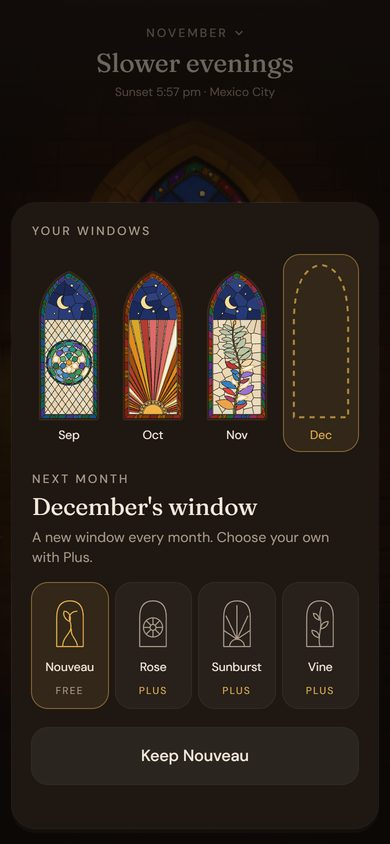
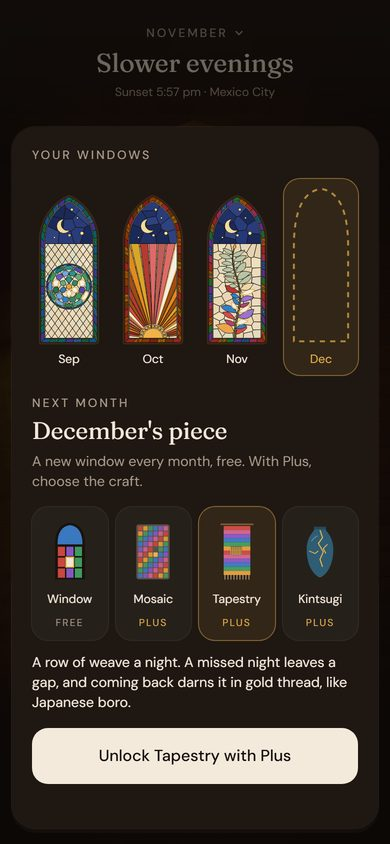
Next month's piece: the window free, other crafts as Plus (mocked); Pricing in the README
The paid tier is choosing the craft: a mosaic, a tapestry or a kintsugi vase,
each mending a missed night in gold its own way. Only the window is built; the
others are small mocks marked Plus. The README explains the month as the unit
(a piece, a billing cycle), when the offer appears, and why the window, not
kintsugi, is the free default.

diff --git a/components/Windows.tsx b/components/Windows.tsx
@@ -5,8 +5,14 @@
 //
 // - The months before stay exactly as they were (missed nights clear, mended in gold), each in
 //   the design it had. This month's is in progress.
-// - A new window every month is free, from the house rotation. Choosing your own is where the
-//   paid tier (Plus) goes. The nightly ritual and the record of your nights are never behind it.
+// - Next month's piece is where the paid tier (Plus) goes. Free, it's another window, from the
+//   house rotation. With Plus you choose the craft: a mosaic, a tapestry or a kintsugi vase, each
+//   with its own way of mending a missed night in gold. (A mock: only the window is built.)
+// - The nightly ritual and the record of your nights are never behind it.
+//
+// Why the window is the free default and kintsugi isn't: kintsugi is the metaphor everyone
+// knows. For some people it's poetic, so it's there to choose, but as the default it would feel
+// borrowed. The window is this app's own version of the same idea.
 
 import { useMemo, useState, type ReactNode } from "react";
 import FlatWindow from "@/components/FlatWindow";
@@ -14,60 +20,82 @@ import { finishedMonth, monthName, type DailyGoal } from "@/lib/data";
 import { DESIGNS } from "@/lib/designs";
 import { buildWindow, nightLooks } from "@/lib/window-model";
 
-type Choice = { id: string; name: string; plus: boolean; art: ReactNode };
+type Medium = { id: string; name: string; plus: boolean; how: string; art: ReactNode };
 
-/** Next month's windows: the house window is free, choosing another is Plus. */
-const CHOICES: Choice[] = [
+const C = { ruby: "#c9473f", amber: "#e39a35", emerald: "#3f9a5d", sapphire: "#3a78c0", amethyst: "#8457c2", rose: "#d0608c", gold: "#e7b24f", lead: "#1a120d" };
+const TONES = [C.ruby, C.amber, C.emerald, C.sapphire, C.amethyst, C.rose];
+
+/** Next month's piece: another window is free; another craft is Plus. Each mends a missed night its own way. */
+const MEDIUMS: Medium[] = [
   {
-    id: "nouveau",
-    name: "Nouveau",
+    id: "window",
+    name: "Window",
     plus: false,
+    how: "A piece of glass a night. A missed night stays clear, and coming back leads it in gold. December's house window is Nouveau.",
     art: (
       <>
-        <path d="M6 70V30Q6 8 24 8t18 22v40Z" />
-        <path d="M14 70c0-16 16-18 10-34-3-8 2-14 10-14" />
-        <path d="M34 70c0-10-10-14-8-24" />
-        <path d="M24 36c-6-2-10-8-8-14 6 0 10 6 8 14Z" />
-      </>
-    ),
-  },
-  {
-    id: "rose",
-    name: "Rose",
-    plus: true,
-    art: (
-      <>
-        <path d="M6 70V30Q6 8 24 8t18 22v40Z" />
-        <circle cx="24" cy="44" r="13" />
-        <circle cx="24" cy="44" r="4" />
-        {Array.from({ length: 8 }, (_, i) => {
-          const a = (i / 8) * Math.PI * 2;
-          return <path key={i} d={`M${24 + Math.cos(a) * 4} ${44 + Math.sin(a) * 4}L${24 + Math.cos(a) * 13} ${44 + Math.sin(a) * 13}`} />;
+        <path d="M6 72V30Q6 6 24 4Q42 6 42 30V72Z" fill={C.lead} />
+        <path d="M9 30Q9 9 24 7Q39 9 39 30Z" fill={C.sapphire} />
+        {Array.from({ length: 9 }, (_, i) => {
+          const [x, y] = [9 + (i % 3) * 10.2, 32.5 + Math.floor(i / 3) * 13];
+          const mended = i === 4;
+          return <rect key={i} x={x} y={y} width="9.4" height="12" fill={mended ? "#efe8d8" : TONES[(i * 4) % 6]} stroke={mended ? C.gold : C.lead} strokeWidth={mended ? 1.6 : 0.8} />;
         })}
       </>
     ),
   },
   {
-    id: "sunburst",
-    name: "Sunburst",
+    id: "mosaic",
+    name: "Mosaic",
     plus: true,
+    how: "A tile a night. A missed night stays bare grout, and coming back sets it with a tile of gold.",
     art: (
       <>
-        <path d="M6 70V30Q6 8 24 8t18 22v40Z" />
-        <path d="M14 70a10 10 0 0 1 20 0" />
-        <path d="M24 60V14M24 60 9 28M24 60l15-32M24 60 6 48M24 60l18-12" />
+        <rect x="4" y="6" width="40" height="66" rx="3" fill="#5c5146" />
+        {Array.from({ length: 6 * 10 }, (_, i) => {
+          const [col, row] = [i % 6, Math.floor(i / 6)];
+          if (i === 27) return null; // bare grout: a night still missed
+          return <rect key={i} x={6.2 + col * 6.1} y={8.2 + row * 6.3} width="5.2" height="5.4" rx="0.6" fill={i === 33 ? C.gold : TONES[(i * 7 + row) % 6]} opacity={i === 33 ? 1 : 0.92} />;
+        })}
       </>
     ),
   },
   {
-    id: "vine",
-    name: "Vine",
+    id: "tapestry",
+    name: "Tapestry",
     plus: true,
+    how: "A row of weave a night. A missed night leaves a gap, and coming back darns it in gold thread, like Japanese boro.",
     art: (
       <>
-        <path d="M6 70V30Q6 8 24 8t18 22v40Z" />
-        <path d="M24 70c-4-14 4-26 0-40-1-5 1-10 2-14" />
-        <path d="M23 58c-6-1-10-5-10-10 6 0 10 4 10 10ZM25 46c6-1 10-5 10-10-6 0-10 4-10 10ZM23 34c-5-1-8-5-8-9 5 0 8 4 8 9Z" />
+        <path d="M5 6h38" stroke="#7a5a3a" strokeWidth="2" strokeLinecap="round" />
+        {Array.from({ length: 12 }, (_, i) => (
+          <rect key={i} x="8" y={8 + i * 4.9} width="32" height="4.9" fill={TONES[(i * 5) % 6]} />
+        ))}
+        {Array.from({ length: 16 }, (_, i) => (
+          <path key={i} d={`M${9 + i * 2} 8v58.8`} stroke="#fff" strokeOpacity="0.12" strokeWidth="0.6" />
+        ))}
+        <rect x="16" y="32.5" width="14" height="9.8" fill="#3b2e24" />
+        {Array.from({ length: 6 }, (_, i) => (
+          <path key={i} d={`M${16.5 + i * 2.5} 32.8v9.2M16.3 ${33.6 + i * 1.6}h13.4`} stroke={C.gold} strokeWidth="0.8" />
+        ))}
+        {Array.from({ length: 9 }, (_, i) => (
+          <path key={i} d={`M${9.5 + i * 3.6} 67v5`} stroke="#c9b28c" strokeWidth="0.9" strokeLinecap="round" />
+        ))}
+      </>
+    ),
+  },
+  {
+    id: "kintsugi",
+    name: "Kintsugi",
+    plus: true,
+    how: "A shard a night, fitted into a bowl. Coming back after a miss joins it with gold.",
+    art: (
+      <>
+        <path d="M17 9h14v3c0 3 9 8 9 24 0 18-7 30-16 34-9-4-16-16-16-34 0-16 9-21 9-24Z" fill="#2f5d73" />
+        <path d="M17 9h14v3H17Z" fill="#244a5c" />
+        <path d="M24 13l3 9-5 7 6 10-4 9 3 9" fill="none" stroke={C.gold} strokeWidth="1.3" strokeLinejoin="round" />
+        <path d="M11 38l7 3 4-3M33 30l-5 5 3 6" fill="none" stroke={C.gold} strokeWidth="1.1" strokeLinejoin="round" />
+        <path d="M14 26c3-4 6-6 7-6" fill="none" stroke="#fff" strokeOpacity="0.25" strokeWidth="1.2" strokeLinecap="round" />
       </>
     ),
   },
@@ -93,10 +121,10 @@ export default function Windows({ goal, shown: showing, onOpen, onClose }: Props
     [goal],
   );
   const [open, setOpen] = useState<string>(showing);
-  const [picked, setPicked] = useState(CHOICES[0].id);
+  const [picked, setPicked] = useState(MEDIUMS[0].id);
   const [asked, setAsked] = useState(false);
   const shown = wall.find((w) => w.goal.month === open);
-  const plus = CHOICES.find((d) => d.id === picked)?.plus;
+  const medium = MEDIUMS.find((d) => d.id === picked) ?? MEDIUMS[0];
 
   return (
     <div role="dialog" aria-modal aria-label="Your windows" className="fixed inset-0 z-20 flex items-end animate-fade [animation-duration:0.3s]">
@@ -154,10 +182,10 @@ export default function Windows({ goal, shown: showing, onOpen, onClose }: Props
         ) : (
           <div key="next" className="mt-5 animate-rise">
             <p className="eyebrow">Next month</p>
-            <h2 className="mt-1 font-display text-2xl">{next}&apos;s window</h2>
-            <p className="mt-1 text-sm text-mist">A new window every month. Choose your own with Plus.</p>
+            <h2 className="mt-1 font-display text-2xl">{next}&apos;s piece</h2>
+            <p className="mt-1 text-sm text-mist">A new window every month, free. With Plus, choose the craft.</p>
             <div className="mt-4 grid grid-cols-4 gap-2">
-              {CHOICES.map((d) => (
+              {MEDIUMS.map((d) => (
                 <button
                   key={d.id}
                   onClick={() => {
@@ -166,10 +194,10 @@ export default function Windows({ goal, shown: showing, onOpen, onClose }: Props
                   }}
                   aria-pressed={picked === d.id}
                   className={`flex flex-col items-center gap-2 rounded-2xl pt-3 pb-2.5 ring-1 transition-colors duration-200 ${
-                    picked === d.id ? "bg-gold/10 text-gold ring-gold/50" : "bg-white/4 text-mist ring-white/8"
+                    picked === d.id ? "bg-gold/10 ring-gold/50" : "bg-white/4 ring-white/8"
                   }`}
                 >
-                  <svg viewBox="0 0 48 76" className="h-14 w-9" fill="none" stroke="currentColor" strokeWidth="1.5" strokeLinejoin="round" aria-hidden>
+                  <svg viewBox="0 0 48 76" className="h-16 w-10" aria-hidden>
                     {d.art}
                   </svg>
                   <span className="text-xs text-ink">{d.name}</span>
@@ -177,16 +205,19 @@ export default function Windows({ goal, shown: showing, onOpen, onClose }: Props
                 </button>
               ))}
             </div>
-            {plus ? (
+            <p key={medium.id} className="mt-3 min-h-10 animate-fade text-sm text-ink">
+              {medium.how}
+            </p>
+            {medium.plus ? (
               <>
-                <button onClick={() => setAsked(true)} className="btn-primary mt-5">
-                  Choose with Plus
+                <button onClick={() => setAsked(true)} className="btn-primary mt-4">
+                  Unlock {medium.name} with Plus
                 </button>
                 <p className="mt-2 h-4 text-center text-xs text-mist">{asked && "No payments in this prototype."}</p>
               </>
             ) : (
-              <button onClick={onClose} className="btn-quiet mt-5 mb-6">
-                Keep {CHOICES.find((d) => d.id === picked)?.name}
+              <button onClick={onClose} className="btn-quiet mt-4 mb-6">
+                Keep the window
               </button>
             )}
           </div>

diff --git a/README.md b/README.md
@@ -11,7 +11,7 @@ Each night of the month sets one leaf of a stained-glass window. Miss a night an
 <img src="docs/screens/6-set.jpg" width="190" alt="Tonight's leaf set, with its line">
 </p>
 
-**Contents:** [The brief, read as a business](#1-the-brief-read-as-a-business) · [What brings people back](#2-what-brings-people-back-and-how-each-one-fails) · [The bet](#3-the-bet) · [The concept](#4-the-concept) · [How I'd know it works](#5-how-id-know-it-works) · [The screen, step by step](#the-screen-step-by-step) · [Decisions](#decisions) · [Tonight's sky (REST)](#tonights-sky-two-public-rest-apis) · [Performance](#performance) · [Not built, written down](#not-built-written-down) · [Tools, AI included](#tools-ai-included) · [Where things live](#where-things-live) · [The original brief](#the-original-brief)
+**Contents:** [The brief, read as a business](#1-the-brief-read-as-a-business) · [What brings people back](#2-what-brings-people-back-and-how-each-one-fails) · [The bet](#3-the-bet) · [The concept](#4-the-concept) · [How I'd know it works](#5-how-id-know-it-works) · [The screen, step by step](#the-screen-step-by-step) · [Decisions](#decisions) · [Pricing](#pricing) · [Tonight's sky (REST)](#tonights-sky-two-public-rest-apis) · [Performance](#performance) · [Not built, written down](#not-built-written-down) · [Tools, AI included](#tools-ai-included) · [Where things live](#where-things-live) · [The original brief](#the-original-brief)
 
 The first five sections are the deck, slide by slide ([the slides](https://claude.ai/artifact/7GmmF1yVZMWkXMUAfoFPeU)).
 
@@ -118,11 +118,11 @@ Identity wording has strong lab results and mixed field replications, which is e
 5. **Tonight's leaf is set.** The view moves in to it while it fills with color, then steps back to the whole month. Tomorrow's leaf starts to wait, faintly.
 6. **Any night, any time.** Tap a night in the row and the view moves in to its leaf. A missed night shows the night that mended it.
 7. **Your windows** (tap the month at the top). Every month's window on one wall, each in its own design, with its intention, its nights and how many were mended. Open one and the screen becomes that month, read-only: its window, its nights, its lines. "Back to tonight" returns.
-8. **Next month's window** is where Plus goes: a new window every month is free, choosing your own is Plus.
+8. **Next month's piece** is where Plus goes: another window is free, and with Plus you choose the craft.
 
 <p>
 <img src="docs/screens/9-your-windows.jpg" width="190" alt="Your windows: September's rose, October's sunburst, November's vine, December still to choose">
-<img src="docs/screens/10-next-window.jpg" width="190" alt="December's window: Nouveau is free, choosing Rose, Sunburst or Vine is Plus">
+<img src="docs/screens/10-next-window.jpg" width="190" alt="December's piece: the window is free, a mosaic, a tapestry or a kintsugi vase are Plus">
 </p>
 
 ## Decisions
@@ -135,8 +135,18 @@ Identity wording has strong lab results and mixed field replications, which is e
 - **Tomorrow's leaf waits too,** once tonight's is set: a reason to come back, with no words.
 - **A wall, not a collection.** The month-three payoff made visible. Nothing is unlocked: every window is a record.
 - **A new design every month** (Rose, Sunburst, Vine, then Nouveau): a fresh start on the 1st.
-- **The paid feature is choosing your next window.** The house window is free, and the ritual and your record are never behind the paywall: you pay for choice, never for your own evidence.
+- **The paid feature is choosing your craft** (see Pricing). The ritual and your record are never behind the paywall: you pay for choice, never for your own evidence.
 - **Tonight is kept on the device,** so a reload shows it set. No backend, as the brief asks.
+
+## Pricing
+
+The month is the unit of everything. Each piece takes a month, and each month is a billing cycle, so the three cycles the business needs are three pieces on your wall.
+
+- **Free:** the nightly ritual, a new window every month from the house rotation, and your whole record and wall, forever.
+- **Plus (the subscription, monthly or yearly):** choose next month's craft. Every craft keeps the same idea, a mark per night and a visible mend after a miss, in its own tradition: a **mosaic** (bare grout, then a gold tile), a **tapestry** (a gap darned in gold thread, like boro) or a **kintsugi** vase (shards joined with gold). These are mocks: only the window is built.
+- **When it's offered:** on the 1st, when a piece is finished and the next one starts. Never at night, never during the ritual.
+- **Why the window is the free default and kintsugi isn't:** kintsugi is the metaphor everyone knows. For some people it's poetic, so it's there to choose, but as the default it would feel borrowed. The mending lead is this app's own version of it.
+- Prices would be a test, judged on month-3 retention, not a guess written here.
 
 ## Tonight's sky: two public REST APIs
 
@@ -168,6 +178,7 @@ Measured on the production build, as a mid-range phone (390×844 at 3×, the CPU
 
 ## Not built, written down
 
+- The other crafts, built for real (they're mocks for now).
 - Your intention, or your favorite color, sets the month's palette.
 - The full year on the wall, and a print of a finished window.
 - Patterns from the heavy days ("heavy days cluster on Fridays"), as a gentle way to spot triggers.
